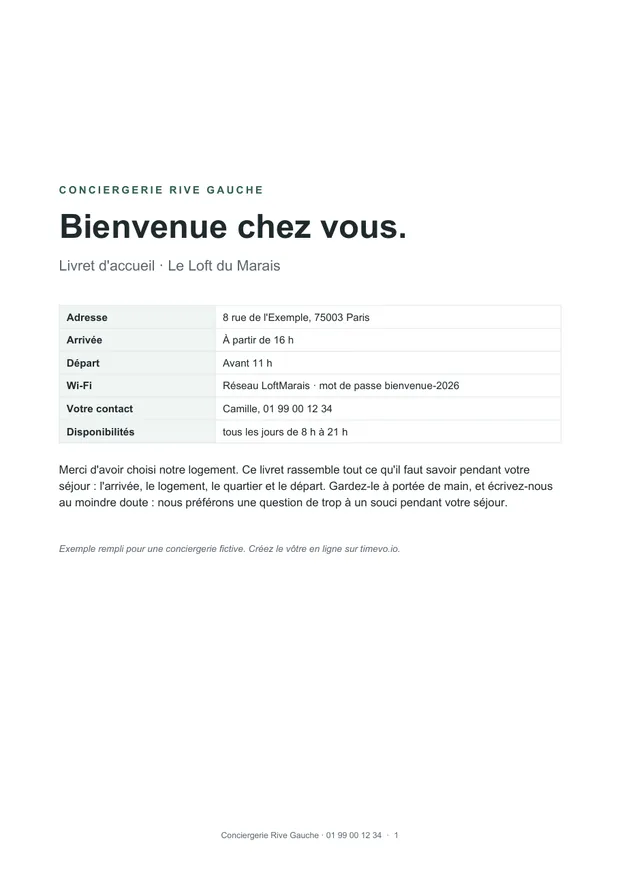
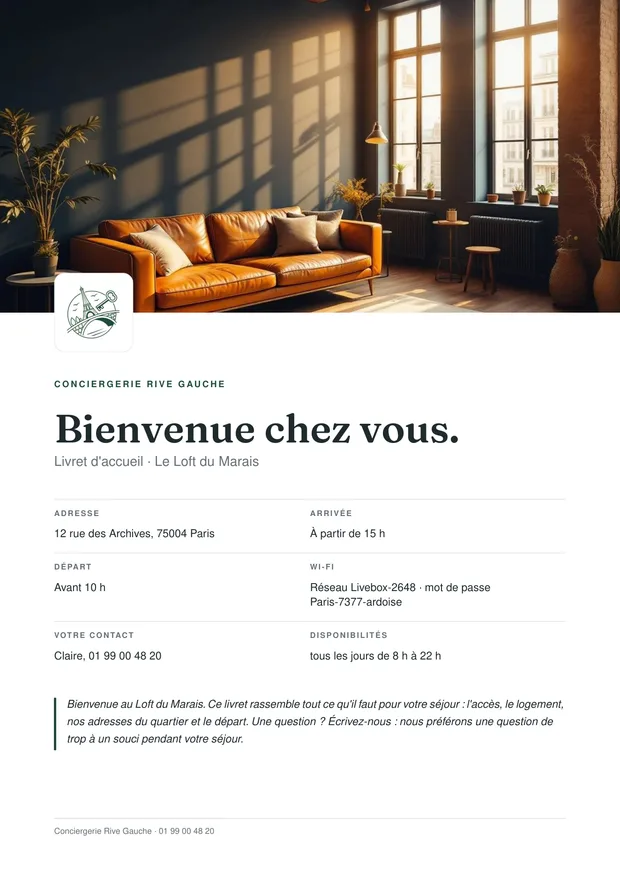
feat(ressources): aperçus de la vitrine tirés du nouveau livret
Couverture, arrivée et quartier du livret du Loft du Marais (démo Rive
Gauche), produit par le générateur en ligne avec son habillage. Les
anciens aperçus montraient l'exemple Word. Sert aussi d'image de partage.

diff --git a/app/sitemap.ts b/app/sitemap.ts
@@ -27,7 +27,7 @@ const UPDATED = {
   cities: "2026-11-21",       // « Agence IA », bouton « diagnostic gratuit »
   demos: "2026-11-21",        // bouton « diagnostic gratuit » au lieu d'« audit »
   facturation: "2026-08-28",  // retrait du prix affiché sur la page facturation électronique
-  ressources: "2026-11-21",   // livret d'accueil : modèle Word et générateur en ligne
+  ressources: "2026-11-22",   // livret d'accueil : aperçus du générateur (habillage), email vérifié
 } as const;
 
 export default function sitemap(): MetadataRoute.Sitemap {
